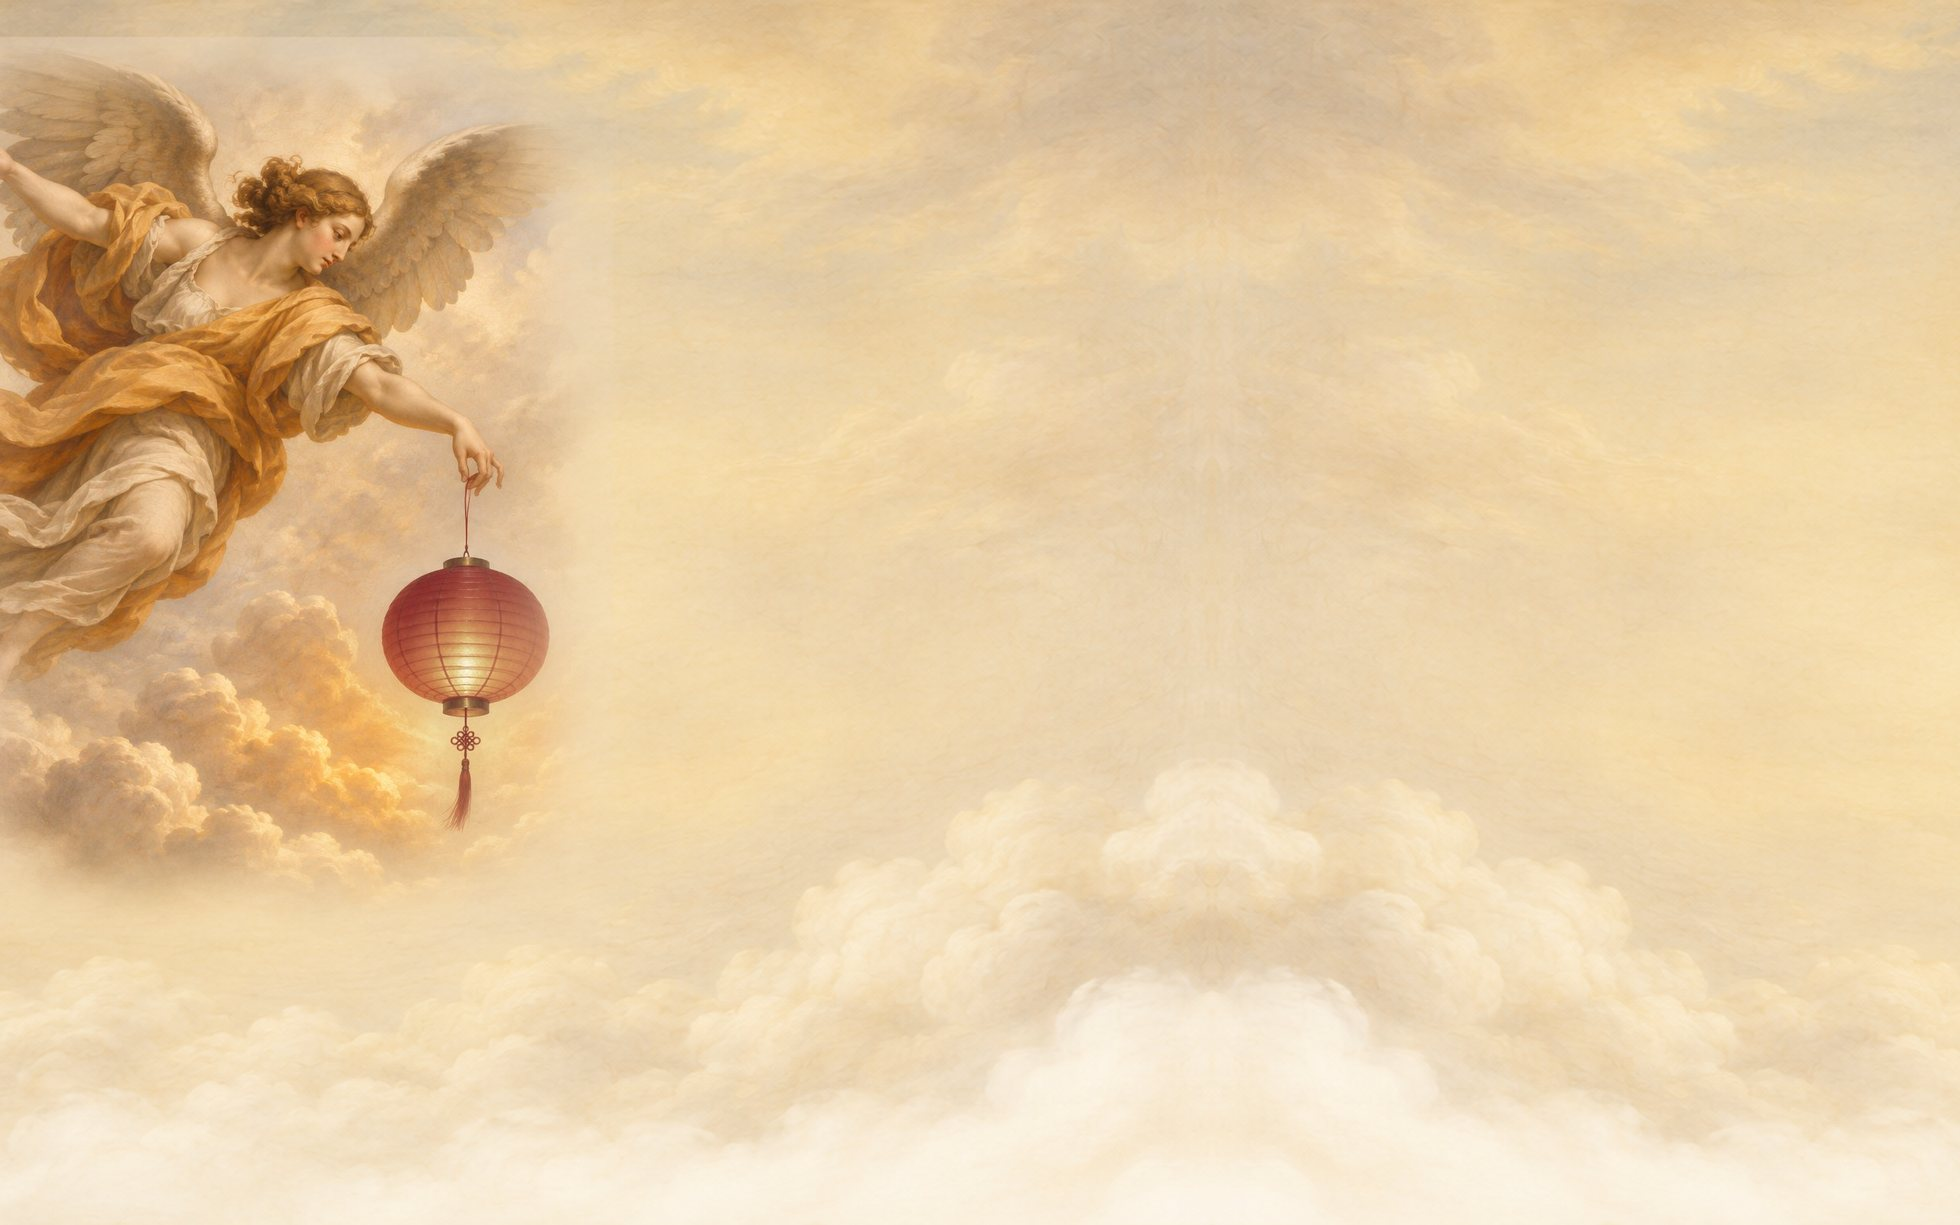
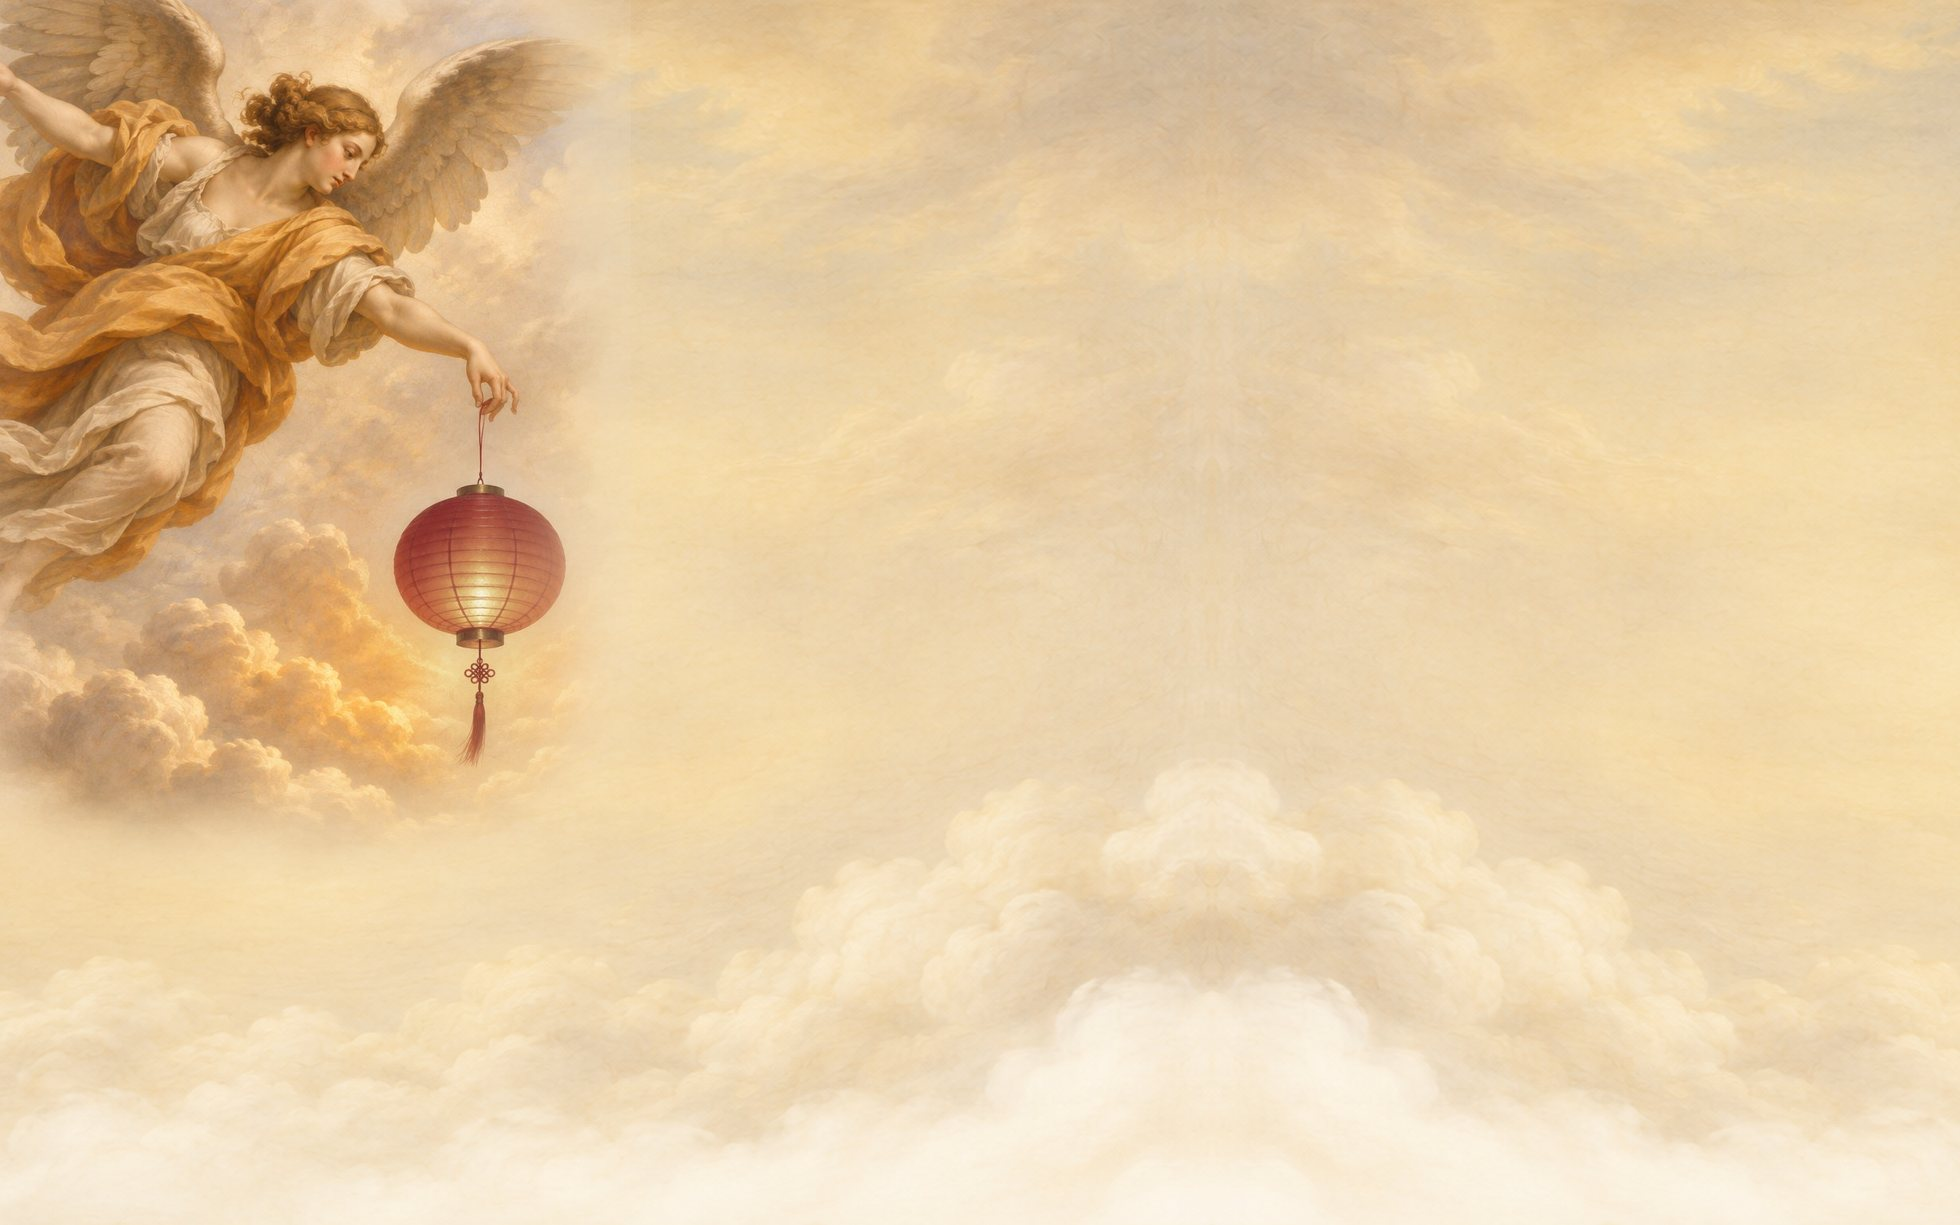
Full-screen painted landing, less text, no top bar
The angel painting fills the first screen with only the label,
headline and two buttons over it. Removes the header bar.

Claude-Session: https://claude.ai/code/session_01VMC75dovcyg8xHeWok5tKD

Changed region(s): [[0.0, 0.0, 0.3112, 0.7445], [0.2801, 0.2792, 0.3112, 0.3102]]

diff --git a/index.html b/index.html
@@ -39,15 +39,11 @@
 }
 
 * { box-sizing: border-box; }
-html { scroll-behavior: smooth; scroll-padding-top: 72px; }
+html { scroll-behavior: smooth; scroll-padding-top: 16px; }
 body {
   margin: 0; background: var(--white); color: var(--ink);
   font-family: var(--sans); font-size: var(--step-0); line-height: 1.55;
   -webkit-font-smoothing: antialiased;
-}
-body::before {
-  content: ""; position: fixed; inset: 0 0 auto; height: env(safe-area-inset-top, 0px);
-  z-index: 10; background: var(--white);
 }
 a { color: inherit; }
 :focus-visible { outline: 2px solid var(--red); outline-offset: 3px; border-radius: 4px; }
@@ -65,21 +61,7 @@ em.s { font-family: var(--serif); font-style: italic; font-weight: 400; letter-s
 }
 .small { font-size: 13px; color: var(--ink-2); }
 
-/* ---------- Header ---------- */
-.site-header {
-  position: sticky; top: env(safe-area-inset-top, 0px); z-index: 20;
-  background: rgba(255, 255, 255, 0.55); backdrop-filter: blur(14px) saturate(1.2); -webkit-backdrop-filter: blur(14px) saturate(1.2);
-}
-.site-header .wrap { display: flex; align-items: center; gap: 36px; padding-block: 10px; }
-.brand { display: flex; align-items: center; gap: 10px; text-decoration: none; min-height: 44px; font-weight: 600; font-size: 15px; white-space: nowrap; }
-.brand svg { width: 16px; height: 21px; color: var(--ink); }
-.brand span { color: var(--ink-2); font-weight: 500; }
-.nav { display: none; gap: 26px; font-size: 15px; font-weight: 500; }
-.nav a { text-decoration: none; }
-.nav a:hover { color: var(--red); }
-@media (min-width: 900px) { .nav { display: flex; } }
-.header-end { margin-left: auto; display: flex; align-items: center; gap: 18px; }
-
+/* ---------- Buttons ---------- */
 .pill {
   display: inline-flex; align-items: center; justify-content: center; gap: 8px; min-height: 44px;
   padding: 0 20px; border-radius: 999px; font: 500 15px/1 var(--sans); text-decoration: none; cursor: pointer;
@@ -89,48 +71,36 @@ em.s { font-family: var(--serif); font-style: italic; font-weight: 400; letter-s
 .pill-dark:hover { background: var(--red); border-color: var(--red); }
 .pill-light { background: var(--white); color: var(--ink); }
 .pill-light:hover { border-color: var(--red); color: var(--red); }
-.site-header .pill { min-height: 36px; padding: 0 16px; font-size: 14px; }
 
-/* ---------- Hero: full-width painting dissolving through the clouds into white ---------- */
-.hero { position: relative; isolation: isolate; overflow: hidden; margin-top: -64px; }
-.hero-bg { position: absolute; inset: 0 0 auto; z-index: -1; aspect-ratio: 1960 / 1225; }
-.hero-bg img { display: block; width: 100%; height: 100%; max-width: 100%; object-fit: cover; object-position: 0% 40%; animation: settle 2.4s cubic-bezier(.2,.7,.2,1) both; }
-.hero-bg::before { content: ""; position: absolute; inset: 0 0 auto; height: 140px; background: linear-gradient(to bottom, rgba(255,255,255,.7), rgba(255,255,255,0)); }
+/* ---------- Hero: the painting fills the first screen, then the clouds fade into white ---------- */
+.hero { position: relative; isolation: isolate; overflow: hidden; }
+.hero-bg { position: absolute; inset: 0; z-index: -1; }
+.hero-bg img { display: block; width: 100%; height: 100%; max-width: 100%; object-fit: cover; object-position: 0% 42%; animation: settle 2.4s cubic-bezier(.2,.7,.2,1) both; }
 .hero-bg::after {
   content: ""; position: absolute; inset: 0;
   background:
-    radial-gradient(ellipse 30% 30% at 50% 46%, rgba(255,255,255,.5), rgba(255,255,255,0) 100%),
-    linear-gradient(to bottom, rgba(255,255,255,0) 66%, rgba(255,255,255,.7) 84%, #fff 99%);
+    radial-gradient(ellipse 26% 24% at 54% 44%, rgba(255,255,255,.45), rgba(255,255,255,0) 100%),
+    linear-gradient(to bottom, rgba(255,255,255,0) 74%, rgba(255,255,255,.75) 90%, #fff 100%);
 }
 @keyframes settle { from { transform: scale(1.04); } to { transform: scale(1); } }
 .hero .wrap {
-  min-height: calc(100vw * 1225 / 1960); display: grid; place-content: center; justify-items: center;
-  text-align: center; gap: 26px; padding-block: 110px 90px;
+  min-height: max(100svh, 620px); display: grid; place-content: center; justify-items: center;
+  text-align: center; gap: 28px; padding-block: 72px 120px;
 }
-.hero h1 { max-width: 9.6em; margin-inline: auto; font-size: clamp(40px, 5.6vw, 96px); }
-.hero .statement-side { justify-items: center; }
-.hero .statement-side p { margin-inline: auto; max-width: 27em; color: var(--ink); font-size: 18px; }
+.hero h1 { max-width: 8.4em; margin-inline: auto; font-size: clamp(42px, 5.4vw, 92px); }
 .hero .actions { justify-content: center; }
-.hero .stats { width: min(460px, 100%); text-align: left; }
+@media (min-width: 760px) { .hero .wrap > * { translate: 4vw -3svh; } }
 @media (max-width: 759px) {
-  .hero-bg { aspect-ratio: auto; height: 74svh; }
-  .hero-bg img { object-position: 6% 30%; }
-  .hero-bg::after { background: linear-gradient(to bottom, rgba(255,255,255,0) 40%, rgba(255,255,255,.85) 72%, #fff 92%); }
-  .hero .wrap { min-height: 0; padding-block: 50svh 56px; }
+  .hero-bg img { object-position: 8% 30%; }
+  .hero-bg::after { background: linear-gradient(to bottom, rgba(255,255,255,0) 42%, rgba(255,255,255,.8) 62%, rgba(255,255,255,.9) 85%, #fff 100%); }
+  .hero .wrap { place-content: end center; padding-block: 72px 14svh; }
 }
-.hero-fig { position: absolute; top: 84px; right: max(16px, env(safe-area-inset-right, 0px)); font-size: 13px; color: var(--ink); opacity: .7; }
+.hero-fig { position: absolute; top: max(20px, env(safe-area-inset-top, 0px)); right: max(16px, env(safe-area-inset-right, 0px)); font-size: 13px; color: var(--ink); opacity: .7; }
 @media (min-width: 760px) { .hero-fig { right: max(32px, env(safe-area-inset-right, 0px)); } }
 .hero h1 { font-size: var(--step-3); line-height: 0.98; letter-spacing: -0.035em; font-weight: 500; }
 .hero h1 em.s { color: var(--red); }
-.kicker { font-size: 13px; font-weight: 600; margin-bottom: 18px; display: block; letter-spacing: 0; }
-.statement-side { display: grid; gap: 24px; min-width: 0; }
-.statement-side p { font-size: var(--step-1); color: var(--ink-2); max-width: 30em; }
-.statement-side p b { color: var(--ink); font-weight: 500; }
+.kicker { font-size: 13px; font-weight: 600; display: block; }
 .actions { display: flex; flex-wrap: wrap; gap: 10px; }
-.stats { display: grid; grid-template-columns: repeat(3, minmax(0, 1fr)); border-top: 1px solid var(--line); }
-.stats div { padding: 14px 0 0; display: grid; gap: 2px; }
-.stats div + div { padding-left: 16px; border-left: 1px solid var(--line); }
-.stats b { font-weight: 500; font-size: 26px; line-height: 1.2; letter-spacing: -0.02em; }
 
 /* ---------- Chapters ---------- */
 .chapter { border-top: 1px solid var(--line); }
@@ -255,21 +225,6 @@ input:focus, textarea:focus { outline: none; border-color: var(--ink); }
   </defs>
 </svg>
 
-<header class="site-header">
-  <div class="wrap">
-    <a class="brand" href="#top" aria-label="Lantern Ventures, home"><svg aria-hidden="true"><use href="#mark"/></svg>Lantern Ventures <span>Fund 00</span></a>
-    <nav class="nav" aria-label="Main">
-      <a href="#thesis">Thesis</a>
-      <a href="#network">Network</a>
-      <a href="#terms">Terms</a>
-      <a href="#portfolio">Portfolio</a>
-      <a href="#partners">Partners</a>
-    </nav>
-    <div class="header-end">
-      <a class="pill pill-dark" href="#apply">Apply</a>
-    </div>
-  </div>
-</header>
 
 <main id="top">
   <section class="hero" aria-labelledby="hero-title">
@@ -278,21 +233,11 @@ input:focus, textarea:focus { outline: none; border-color: var(--ink); }
     </div>
     <p class="hero-fig" aria-hidden="true">Fig. I &nbsp;<i>The Lantern Bearer</i></p>
     <div class="wrap">
-      <div>
-        <span class="kicker">Lantern Ventures · Fund 00</span>
-        <h1 id="hero-title">We back founders <em class="s">before</em> anyone else is looking.</h1>
-      </div>
-      <div class="statement-side">
-        <p><b>Lantern is an angel fund run by students across North America, Europe and Asia.</b> We write the first check to exceptional people, often before there is a company, then open up every city in our network to them.</p>
-        <div class="actions">
-          <a class="pill pill-dark" href="#apply">Apply for funding</a>
-          <a class="pill pill-light" href="#join">Join the network</a>
-        </div>
-        <div class="stats">
-          <div><span class="small">Stage</span><b>Pre-seed</b></div>
-          <div><span class="small">Partners</span><b>3</b></div>
-          <div><span class="small">Cities</span><b id="city-count">11</b></div>
-        </div>
+      <span class="kicker">Lantern Ventures · Fund 00</span>
+      <h1 id="hero-title">We back founders <em class="s">before</em> anyone else is looking.</h1>
+      <div class="actions">
+        <a class="pill pill-dark" href="#apply">Apply for funding</a>
+        <a class="pill pill-light" href="#join">Join the network</a>
       </div>
     </div>
   </section>
@@ -502,7 +447,6 @@ input:focus, textarea:focus { outline: none; border-color: var(--ink); }
   cta.className = "city"; cta.href = "#apply"; cta.style.textDecoration = "none";
   cta.innerHTML = '<h4 style="font-family:var(--serif);font-weight:400;font-size:26px">Your city, next?</h4><span class="schools">Lead Lantern on your campus →</span>';
   grid.appendChild(cta);
-  document.getElementById("city-count").textContent = CITIES.length;
 
   // Empty portfolio frames for Fund 00.
   var slots = document.getElementById("slots");
